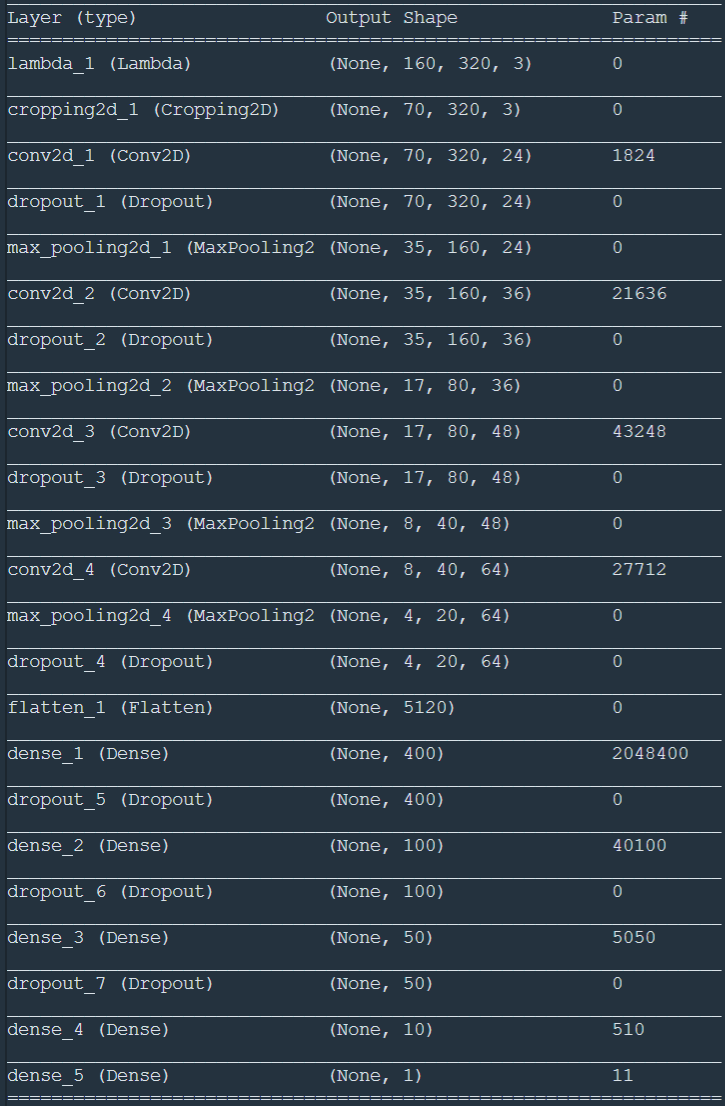
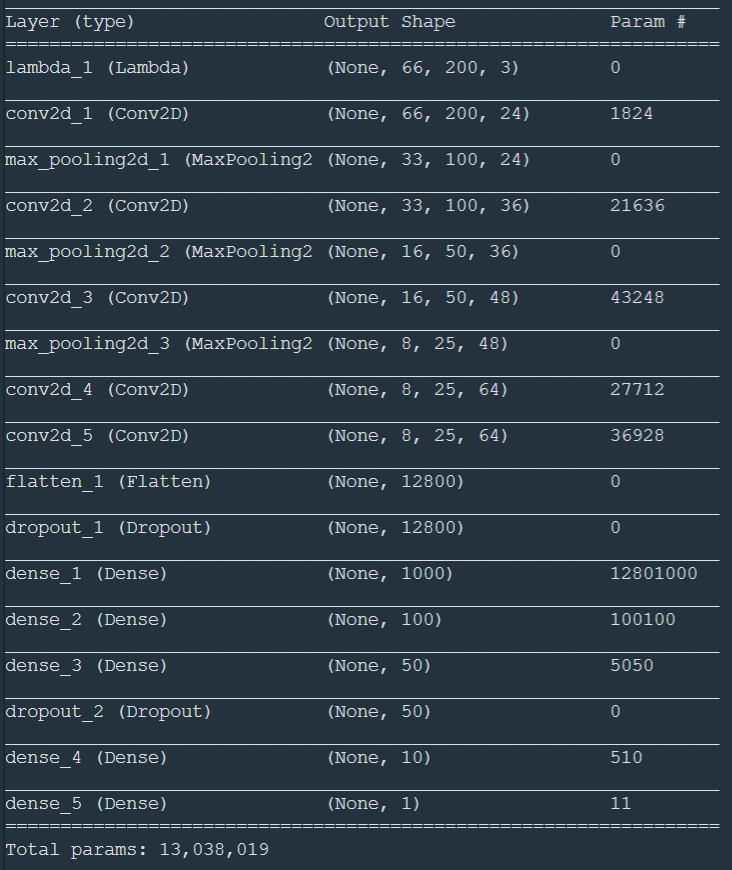
completed

Changed region(s): [[0.0, 0.0, 1.0, 1.0]]

diff --git a/train.py b/train.py
@@ -8,122 +8,143 @@ from keras.layers.pooling import MaxPooling2D
 from keras import optimizers
 import tensorflow as tf
 from sklearn.model_selection import train_test_split
+import random
+import math
 
 
 # Make Data Set
 
-def preprocessing(img):
-    img = cv2.GaussianBlur(img, (3, 3), 0)
-    img = cv2.cvtColor(img, cv2.COLOR_BGR2YUV)
-    return img
-
 lines = []
 
-with open('./data_new2/driving_log.csv') as csvfile:
+with open('./data_new3/driving_log.csv') as csvfile:
     reader = csv.reader(csvfile)
     header = next(reader)
     for line in reader: 
         #print(line)
         lines.append(line)
-        
-        
-images = []
-measurements = []
 
-bias_adj = 0.20
-ster_adj = 0.0
 
-for line in lines: 
+        
+# Preprocessing and Generator functions         
+        
+def preprocessing(img):
+    img = cv2.GaussianBlur(img, (5, 5), 0)  
+    img = img[ 55: 140, :, :]   # cropping
+    img = cv2.resize(img, (200, 66), interpolation = cv2.INTER_AREA)   # resizing
+    img = cv2.cvtColor(img, cv2.COLOR_BGR2HLS)  #chaning color space
+    #img = np.expand_dims(img, axis=2)
+    return img
+ 
+def augmentation(img):
+  
+    # color swap
+    #random_multiplier = int(np.random.uniform()) * 3 # 0 or 1 or 2
+    img_aug = img
+    #for i in range(3):
+    #    img_aug[i] = img[(i + random_multiplier) % 3]
     
-    for i in range(3):
+    # color flip 
+    #rm = int(np.random.uniform())   # 0 or 1
+    #img_aug = rm * img_aug + rm * (255 - img_aug)
+    
+    # random brightness 
+    random_bright = 0.5 + np.random.uniform()
+    img_aug[:,:,2] = img_aug[:,:,2]*random_bright
+    img_aug[:,:,2][img_aug[:,:,2]>255]  = 255
+    
+    return img_aug
+    
+def generator(samples, batch_size=32):
+    num_samples = len(samples)
+             
+    while True: # Loop forever so the generator never terminates
       
-        source_path = line[i]
-        print('source_path:', source_path)
-        image = cv2.imread(source_path)
-        
-        image = preprocessing(image)
-
-        images.append(image)
-
-        if i == 1: ster_adj = bias_adj * 1
-        elif i == 2: ster_adj = bias_adj * -1 
-        
-        measurement = float(line[3]) + ster_adj
-        measurements.append(measurement)
-
-        #flippted images 
-
-        image_flipped = np.fliplr(image)
-        
-        image_flipped = preprocessing(image_flipped)
-        
-        measurement_flipped = -measurement
-
-        
-        images.append(image_flipped)
-        measurements.append(measurement_flipped)
-
-       
-X = np.array(images)
-y = np.array(measurements)
-X_train, X_valid, y_train, y_valid = train_test_split(X, y, test_size=0.20, random_state=42)
-
-def generator(X_data, y_data, batch_size=32):
-    num_samples = len(X_data)
-    while 1: # Loop forever so the generator never terminates
-      
-        X_data, y_data = shuffle(X_data, y_data)
+        random.shuffle(samples)
     
         for offset in range(0, num_samples, batch_size):
-            X_batch_ = X_data[offset:offset+batch_size]
-            y_batch_ = y_data[offset:offset+batch_size]
+            batch_samples = samples[offset : offset+batch_size]
+            
+            images = []
+            measurements = []
+            
+            for batch_sample in batch_samples:
+                
+                for i in range(3):
+                    
+                    #loading 
+                    source_path = batch_sample[i]
+                    #print('source_path:', source_path)
+                    image = cv2.imread(source_path)
+                    
+                    
+                    # preprocess and augumentation                  
+                    image = augmentation(image)
+                    image = preprocessing(image)
+                    
+                    image_flipped = np.fliplr(image)
+                    
+                     
+                    images.append(image)
+                    images.append(image_flipped)
+                                   
+                    # intentional adjustment for right and left cameras
+                    bias_adj = 0.20
+                    ster_adj = 0.0       
+                    if i == 1: ster_adj = bias_adj * 1
+                    elif i == 2: ster_adj = bias_adj * -1 
 
-            yield X_batch, y_batch
+                    measurement = float(batch_sample[3]) + ster_adj
+                    measurement_flipped = -measurement     
+                    measurements.append(measurement)                    
+                    measurements.append(measurement_flipped)
+                    
+                    #print(source_path, 'ster_adj:', ster_adj, 'measurement:', measurement)            
+                    
+            X_train = np.array(images)
+            y_train = np.array(measurements)
 
-batch_size=32
-train_generator = generator(X_train, y_train, batch_size=batch_size)
-validation_generator = generator(X_valid, y_valid, batch_size=batch_size)
+            yield X_train, y_train
 
 
 # Make Network 
 
 model = Sequential()
-model.add(Lambda(lambda x: (x/255.0) - 0.5, input_shape=(160, 320, 3)))
-model.add(Cropping2D(cropping=((80, 20),(0, 0))))
+model.add(Lambda(lambda x: (x/255.0) - 0.5, input_shape=(66, 200, 3)))
 model.add(Conv2D(24, (5, 5), padding='same', activation='relu'))
-model.add(Dropout(0.5))
 model.add(MaxPooling2D())
 model.add(Conv2D(36, (5, 5), padding='same', activation='relu'))
-model.add(Dropout(0.5))
 model.add(MaxPooling2D())
 model.add(Conv2D(48, (5, 5), padding='same', activation='relu'))
-model.add(Dropout(0.5))
 model.add(MaxPooling2D())
 model.add(Conv2D(64, (3, 3),  padding='same', activation='relu'))
-model.add(MaxPooling2D())
-model.add(Dropout(0.5))
+model.add(Conv2D(64, (3, 3),  padding='same', activation='relu'))
 model.add(Flatten())
-model.add(Dense(400, activation='relu'))
-model.add(Dropout(0.5))
+model.add(Dropout(0.2))
+model.add(Dense(1000, activation='relu'))
 model.add(Dense(100, activation='relu'))
-model.add(Dropout(0.5))
 model.add(Dense(50, activation='relu'))
-model.add(Dropout(0.5))
+model.add(Dropout(0.2))
 model.add(Dense(10, activation='relu'))
 model.add(Dense(1))
 model.summary()
 
 
 # compile and train the model using the generator function
+                   
+train_samples, validation_samples = train_test_split(lines, test_size=0.2)
 
+batch_size=32
+train_generator = generator(train_samples, batch_size=batch_size)
+validation_generator = generator(validation_samples, batch_size=batch_size)
 
-adm = optimizers.Adam(lr=0.001)
+adm = optimizers.Adam(lr=0.0005)
 model.compile(loss='mean_squared_error', optimizer=adm)
-#model.fit(X_train, y_train, batch_size=32, validation_split=0.2, shuffle=True, nb_epoch=2)
-model.fit_generator(train_generator, steps_per_epoch=ceil(len(X_train)/batch_size), \
+model.fit_generator(train_generator, \
+                    steps_per_epoch=math.ceil(len(train_samples)/batch_size), \
                     validation_data=validation_generator, \
-                    validation_steps=ceil(len(X_valid)/batch_size),\
-                    epochs=5, verbose=1)
+                    validation_steps=math.ceil(len(validation_samples)/batch_size),\
+                    epochs=2, \
+                    verbose=1)
 
 
 model.save('model.h5') 

diff --git a/drive.py b/drive.py
@@ -24,11 +24,14 @@ app = Flask(__name__)
 model = None
 prev_image_array = None
 
-
+        
 def preprocessing(img):
-    img = cv2.GaussianBlur(img, (3, 3), 0)
-    img = cv2.cvtColor(img, cv2.COLOR_BGR2YUV)
-    #img = cv2.cvtColor(img, cv2.COLOR_RGB2GRAY)
+    img = cv2.GaussianBlur(img, (5, 5), 0)  
+    img = img[ 55: 140, :, :]   # cropping
+    img = cv2.resize(img, (200, 66), interpolation = cv2.INTER_AREA)   # resizing
+    img = cv2.cvtColor(img, cv2.COLOR_BGR2HLS)  #chaning color space
+    
+    #img = np.expand_dims(img, axis=2)
     return img
 
 

diff --git a/README.md b/README.md
@@ -1,13 +1,12 @@
 # Behavioral Cloning
 
 
+![image](./images/run1.gif)
 
 
 ## Objective 
 
-This tries to learn a driving agent to learn how to drive by seeing human's drive records. 
-
-
+This tries to let a driving agent learn how to drive by seeing human's drive records. 
 
 
 ## Approach
@@ -23,7 +22,7 @@ This tries to learn a driving agent to learn how to drive by seeing human's driv
         -  sterring input by human
 - Trained CNN model 
     - Used the images as the input and the steering movement as the output
-    - Recorded 3 laps of a same environement, by changing the way or running
+    - Recorded 2 laps of a same environement (once in forward, once in backward cycle)
     - Used following CNN network. This is based on NVIDA's network for self-driving car  (https://devblogs.nvidia.com/deep-learning-self-driving-cars/)
 
     ![image](./images/network.png)
@@ -31,12 +30,15 @@ This tries to learn a driving agent to learn how to drive by seeing human's driv
 
     - Data is preprrocessed/augumated as below:
         - Cropped the top and bottom of the images and focused on the area where the road is shown
+        - Resized to (200 x 66) 
         - normalized the data between -0.5 - +0.5 
         - add left-right flipped images (+ flipped sterring)
         - adjusted the right camera image's corresponding steering as -0.2 (toward left) and the left camera's images as +0.2 (toward right) 
+        - changed to HLS color space and randomly adjusted the brightness (to avoide the impact of shadow) 
     
 ## Result 
 
+- The car can run one wrap in the same course 
 - See the video above
 
 ## Limiation and improvement opportunities
@@ -47,4 +49,4 @@ This tries to learn a driving agent to learn how to drive by seeing human's driv
 
 - training the model 'python train.py'
 - run the model 'python drive.py model.h5'
-- run Unity simulator (the environment is on Udacity server) 
+- run Unity simulator (the environment is on Udacity server. The way to run localy is ... (TBD))
